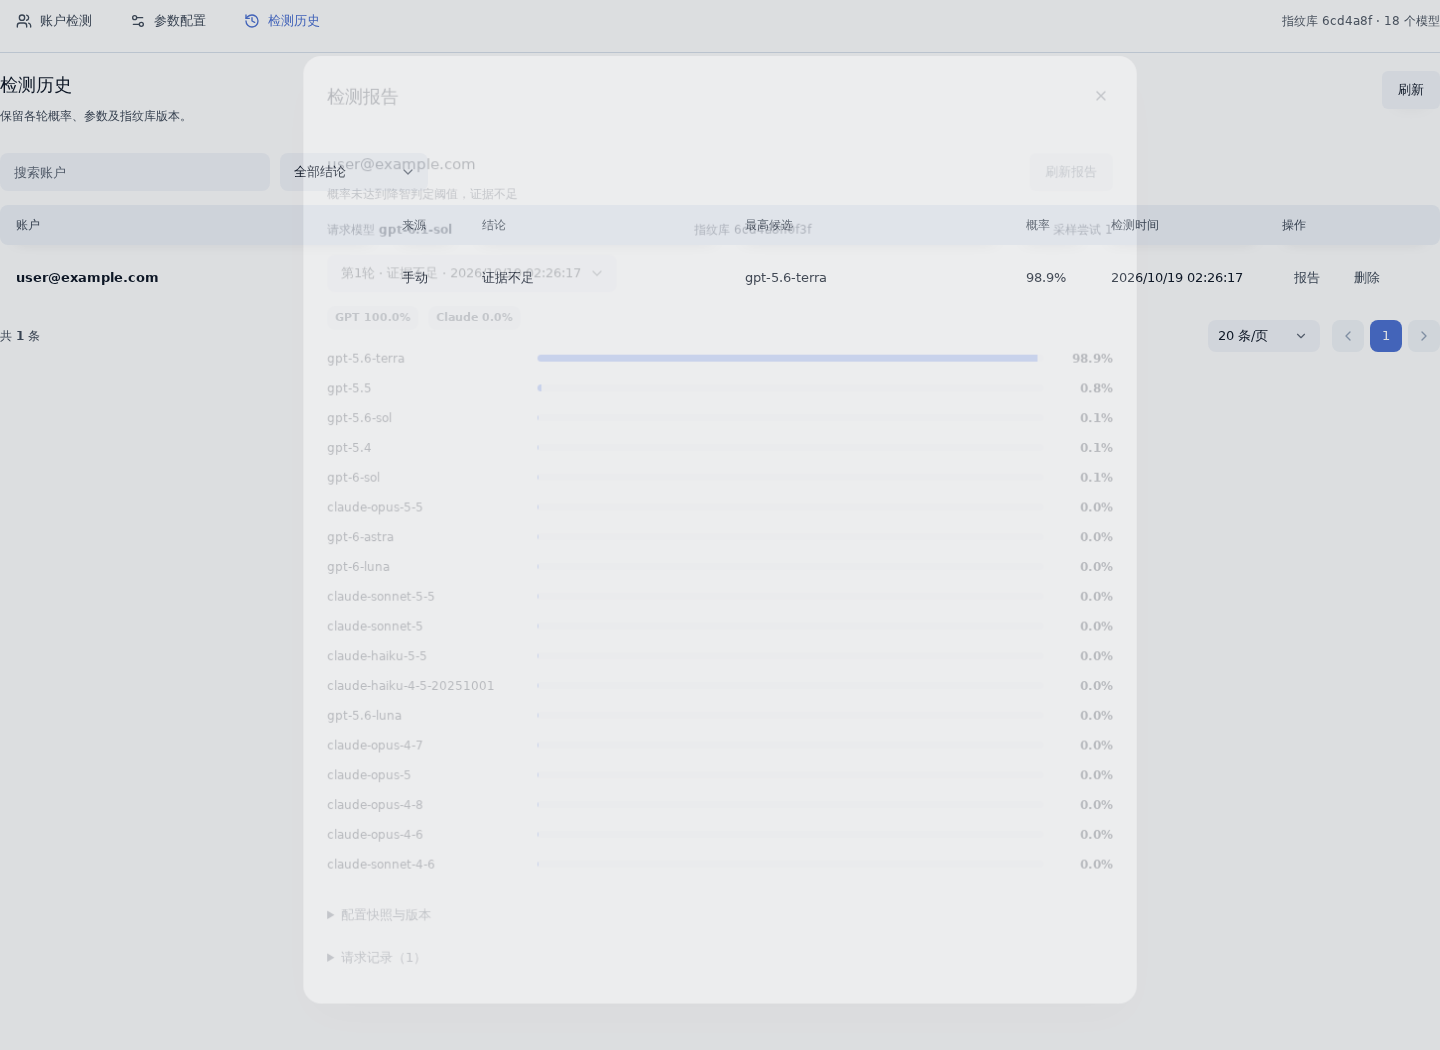
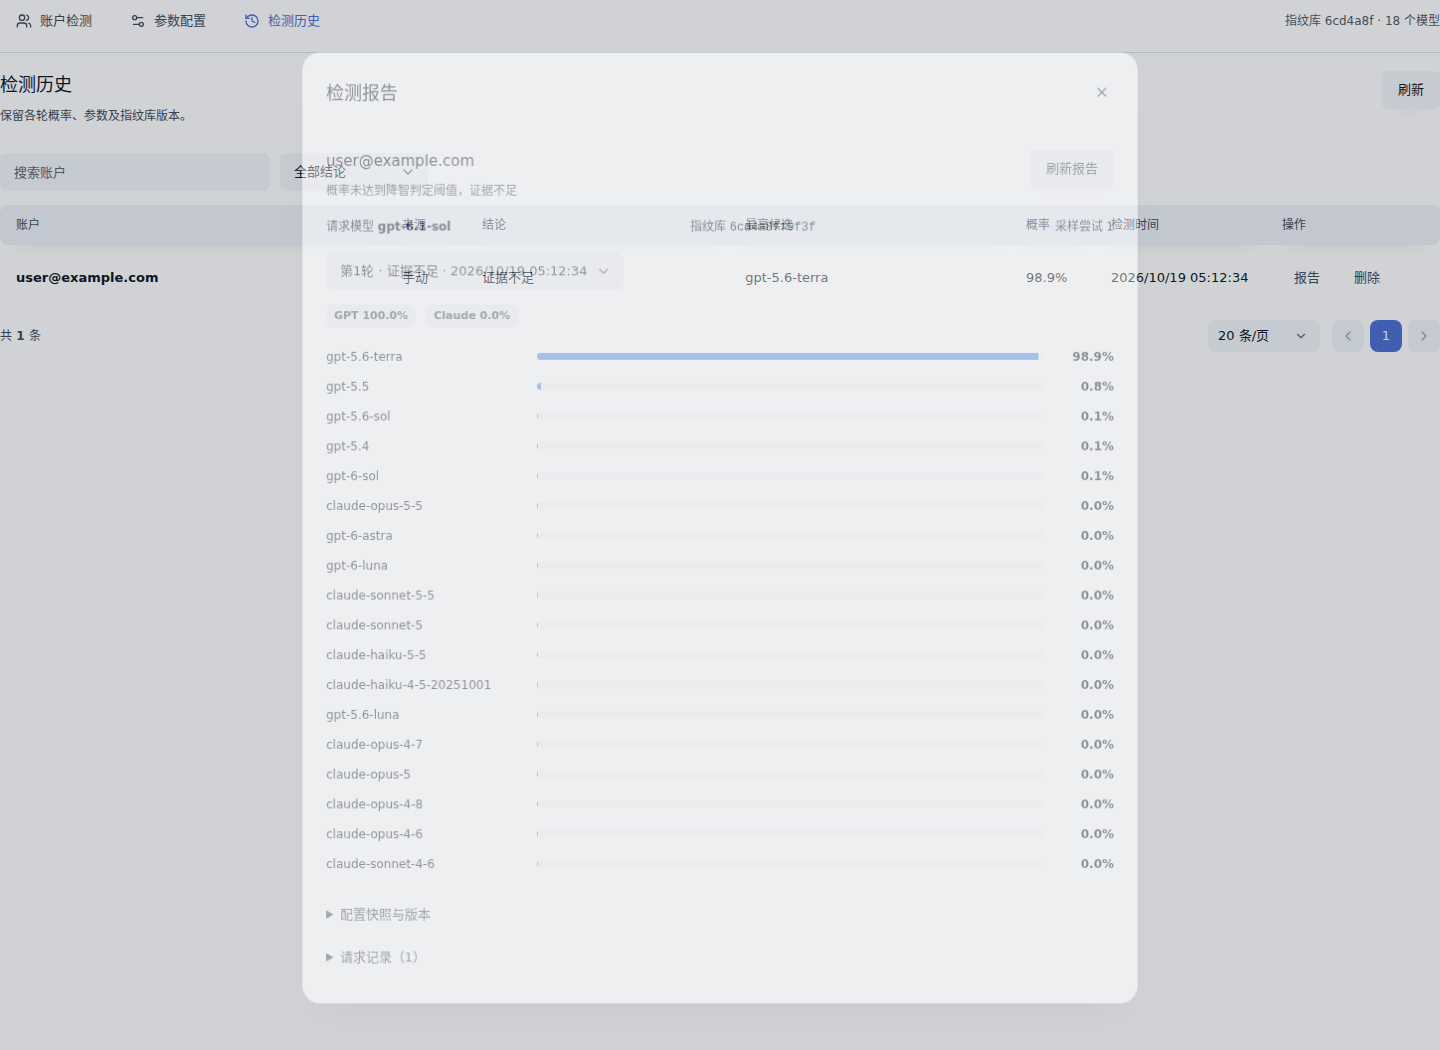
Release v1.4.2: label deferred scoring as its own progress stage

diff --git a/scripts/upgrade_smoke.py b/scripts/upgrade_smoke.py
@@ -48,9 +48,18 @@ def main():
             cfg["schedule"].update(enabled=True, scope="ids", accountIds=["acct-test"], timezone="Asia/Shanghai")
             old.request("api/config", {"config": cfg, "revision": bootstrap["configRevision"]})
             identity = old.request("api/submit", {"accountIds": ["acct-test"], "requestId": "actual-upgrade"})["submitted"][0]
-            old.tick()
-            before = old.request("api/bootstrap")
             report = old.request("api/report?id=" + identity)
+            # 1.4 defers scoring to the next maintenance callback when the callback
+            # budget runs low (cold start), so one tick no longer settles a round.
+            # Tick until the job settles: a first load after restart intentionally
+            # interrupts active jobs, which would mask the retention comparison.
+            for _ in range(5):
+                if report["status"] not in ("queued", "running"):
+                    break
+                old.tick()
+                report = old.request("api/report?id=" + identity)
+            assert report["status"] not in ("queued", "running"), "job did not settle before upgrade"
+            before = old.request("api/bootstrap")
             state = copy.deepcopy(old.state)
         finally:
             old.close()

diff --git a/backend/src/main.rs b/backend/src/main.rs
@@ -97,7 +97,7 @@ async fn handle(
             )
         }
         ("GET", "api/models") => {
-            let models:gateway_plugin_sdk::call::host::ModelListResult=host::meta(h,"host.models.list",json!({"client_key_id":query("keyId"),"protocol":"openai","client_version":"modeltrace-health/1.4.1"})).await?;
+            let models:gateway_plugin_sdk::call::host::ModelListResult=host::meta(h,"host.models.list",json!({"client_key_id":query("keyId"),"protocol":"openai","client_version":"modeltrace-health/1.4.2"})).await?;
             Ok(json!({"models":models.models}))
         }
         ("GET", "api/progress") => m

diff --git a/docs/verification.md b/docs/verification.md
@@ -1,26 +1,18 @@
-# v1.4.1 验证记录
+# v1.4.2 验证记录
 
 适配 Codex Proxy RS `>=3.29.1,<3.30.0`，Linux x86_64，glibc 2.36+。
 
-交付文件：`dist/personal.modeltrace-health-1.4.1-x86_64-unknown-linux-gnu.tar.gz`，30,677,349 字节。
+交付文件：`dist/personal.modeltrace-health-1.4.2-x86_64-unknown-linux-gnu.tar.gz`，30,676,003 字节。
 
[2 lines of base64/hex data omitted]
 
-## 回归原因与修复
+## 修复内容
 
-用已发布1.2及1.4安装包中的实际二进制，在相同30秒维护预算、默认120秒插件超时下，让模拟模型在25秒返回完整有效回答：
+1.4.1 中，模型回答在维护预算最后约5.5秒内到达时，有效样本已保存、评分被推迟到下一次维护回调，但阶段标签停留在 `validating`，界面显示「正在校验样本」并累计约30秒墙钟时间，容易被误读为校验耗时。
 
-| 版本 | 实际结果 |
-| --- | --- |
-| 1.2.0 | 第一次回调建立任务，第二次准备挑战，第三次请求约25.6秒后成功保存有效样本 |
-| 1.4.0 | 首次回调合并步骤后，约22.5秒主动记录「模型请求超时」 |
-| 1.4.1 | 冷启动及额外3秒准备延迟时，先保存挑战，不发送请求也不消耗尝试；下一回调的25秒请求成功，最终完成评分且仅发送一次模型请求 |
+1.4.2 在推迟评分时上报独立阶段 `waiting_score`，前端显示「已获得有效样本，等待评分」。评分时机、请求是否重发、采样尝试预算均与1.4.1完全一致，仅修正显示。
 
-1.3合并步骤时，30秒维护调用先扣除1.5秒安全时间，请求另扣6秒；准备阶段还继续占用同一预算。即使准备很快，请求也只剩约22.5秒。宿主在回调结束后约30秒再次调度，因此连续失败记录约52.5秒一次，与本次故障现象吻合。
-
-1.4.1将请求额外预留改为0.5秒，加上原有1.5秒安全时间，共保留约2秒。请求可使用约28秒；发起前检查是否还有完整窗口，冷启动准备较慢时主动让出回调。评分预算不足时继续保留有效样本，下次评分不重发请求。
-
-新增错误诊断区分维护预算超时与用户配置超时，保存实际窗口、耗时及已接收流数据量。连续两次维护预算超时提前终止；普通失败及配置超时仍最多5次。等待重试显示原因和次数，失败请求增加时立即触发报告刷新。
+对照验证使用同一回归测试分别运行两个发布二进制：`Integration.test_deferred_scoring_reports_waiting_score`（23秒返回的模拟回答，冷启动直接触发延后评分）在1.4.1二进制上失败于 `'validating' != 'waiting_score'`，在1.4.2二进制上通过；两次均只发送一次模型请求，下一次回调完成评分。
 
 ## 验证结果
 
@@ -28,13 +20,15 @@ SHA-256：`b0edc243c86fb6638ff07b3ee65cfcd513efbd825300749c0616f5c4e0af8bc5`。
 | --- | --- |
 | Rust 单元测试 | 11项通过，覆盖阈值、连续确认、旧记录兼容、时区、账户绑定、完整SSE要求、运行时解包及指纹库 |
 | Python 单元测试 | 6项通过，评分算法与运行时未变更 |
-| 发布二进制 RPC 集成 | 33项全部通过（159.902秒），包括上述25秒回归、连续预算超时停止、配置超时5次上限，以及1.4的两项调度操作、身份保护、定时、指纹库、取消与实时进度测试 |
-| 真实版本升级 | 1.4.0→1.4.1、1.3.0→1.4.1均通过。使用安装包中的二进制与同一模拟状态存储，检查自定义参数、配置版本、定时时区与下次执行时间、报告及指纹库保留，升级不重放请求；旧报告新增可选诊断字段为空 |
-| 浏览器交互 | 活跃任务每秒轮询，流进度与重试原因在2.5秒内显示；失败次数增加时报告自动更新，显示耗时、接收量和请求窗口；原有配置备份、导入、两项独立操作、宿主iframe隔离、桌面/手机与深色模式通过，无页面JavaScript异常 |
+| 发布二进制 RPC 集成 | 34项全部通过（174.830秒），含新增的延后评分阶段回归及上述1.4.1对照；调试二进制同一套件34项通过（145.709秒） |
+| 真实版本升级 | 1.3.0→1.4.2、1.4.0→1.4.2、1.4.1→1.4.2均通过。检查自定义参数、配置版本、定时时区与下次执行时间、报告及指纹库保留，升级不重放请求 |
+| 浏览器交互 | 19项检查通过：搜索、订阅筛选、批量提交、配置保存、备份与导入、移组重试、模型目录、指纹库更新回退、报告、移动端深色主题、2.5秒内实时进度、失败自动刷新、暂停恢复；无页面JavaScript异常 |
 | 静态与构建 | Rust fmt、Clippy `-D warnings`、TypeScript及前端生产构建通过；Zig以glibc2.36构建，最高导入GLIBC符号版本2.34 |
-| 安装包 | 包摘要与全部资源摘要、相对资源路径、私有Python/NumPy离线校验及实际插件冷启动解包/完整评分通过，内置18个候选模型 |
+| 安装包 | 包摘要与全部资源摘要、离线Python/NumPy评分及实际插件冷启动解包/完整评分通过，内置18个候选模型 |
 
-多数RPC测试先显式预热评分引擎，以验证各自的业务路径；冷启动由独立的准备延迟回归及完整安装包测试覆盖。模拟宿主会提供指定调用预算和延迟模型流，未连接真实RS管理服务或发送真实账户请求。
+多数RPC测试先显式预热评分引擎，以验证各自的业务路径；冷启动由新增的延后评分回归、准备延迟回归及完整安装包测试覆盖。模拟宿主会提供指定调用预算和延迟模型流，未连接真实RS管理服务或发送真实账户请求。
+
+升级用例在比较前会等待旧版本任务结算：1.4起评分可能跨维护回调完成，而进程重启后首次载入会把未结算任务按设计标记为「中断，需重新检测」，不重放请求；该行为与1.4.1一致（1.4.1→1.4.1对照同样为中断），并非1.4.2引入。
 
 插件ID、状态namespace和schema保持不变；1.4默认参数、移组/关闭调度、配置备份及1.3时区逻辑保留。本修复不要求更新宿主。宿主单次维护调用仍限制模型最长等待时间，插件配置120秒不代表可在30秒回调里等待120秒；真正的请求状态不确定仍保留中断保护。
 
@@ -44,11 +38,13 @@ SHA-256：`b0edc243c86fb6638ff07b3ee65cfcd513efbd825300749c0616f5c4e0af8bc5`。
 cargo test --manifest-path backend/Cargo.toml --locked
 cargo clippy --manifest-path backend/Cargo.toml --locked --all-targets -- -D warnings
 .venv/bin/python -m unittest discover -s engine/tests -v
-.venv/bin/python scripts/verify_artifact.py dist/personal.modeltrace-health-1.4.1-x86_64-unknown-linux-gnu.tar.gz
+.venv/bin/python scripts/verify_artifact.py dist/personal.modeltrace-health-1.4.2-x86_64-unknown-linux-gnu.tar.gz
 .venv/bin/python scripts/protocol_smoke.py --binary /path/to/extracted/bin/modeltrace-health -v
-.venv/bin/python scripts/upgrade_smoke.py dist/personal.modeltrace-health-1.4.0-x86_64-unknown-linux-gnu.tar.gz dist/personal.modeltrace-health-1.4.1-x86_64-unknown-linux-gnu.tar.gz
+.venv/bin/python scripts/upgrade_smoke.py dist/personal.modeltrace-health-1.4.1-x86_64-unknown-linux-gnu.tar.gz dist/personal.modeltrace-health-1.4.2-x86_64-unknown-linux-gnu.tar.gz
 .venv/bin/python scripts/ui_fixture.py
 PLAYWRIGHT_BROWSERS_PATH=.cache/browser-bin node scripts/ui_smoke.mjs
 ```
 
[1 lines of base64/hex data omitted]
+浏览器环境准备及完整构建命令见 [README](../README.md#开发与验证)。浏览器截图：[账户列表](screenshots/accounts.png)、[参数与指纹库设置](screenshots/settings.png)、[检测报告](screenshots/report.png)、[手机深色主题](screenshots/mobile.png)。
+
[1 lines of base64/hex data omitted]

diff --git a/docs/verification-v1.4.1.md b/docs/verification-v1.4.1.md
@@ -1,0 +1,54 @@
+# v1.4.1 验证记录
+
+适配 Codex Proxy RS `>=3.29.1,<3.30.0`，Linux x86_64，glibc 2.36+。
+
+交付文件：`dist/personal.modeltrace-health-1.4.1-x86_64-unknown-linux-gnu.tar.gz`，30,677,349 字节。
+
[1 lines of base64/hex data omitted]
+
+## 回归原因与修复
+
+用已发布1.2及1.4安装包中的实际二进制，在相同30秒维护预算、默认120秒插件超时下，让模拟模型在25秒返回完整有效回答：
+
+| 版本 | 实际结果 |
+| --- | --- |
+| 1.2.0 | 第一次回调建立任务，第二次准备挑战，第三次请求约25.6秒后成功保存有效样本 |
+| 1.4.0 | 首次回调合并步骤后，约22.5秒主动记录「模型请求超时」 |
+| 1.4.1 | 冷启动及额外3秒准备延迟时，先保存挑战，不发送请求也不消耗尝试；下一回调的25秒请求成功，最终完成评分且仅发送一次模型请求 |
+
+1.3合并步骤时，30秒维护调用先扣除1.5秒安全时间，请求另扣6秒；准备阶段还继续占用同一预算。即使准备很快，请求也只剩约22.5秒。宿主在回调结束后约30秒再次调度，因此连续失败记录约52.5秒一次，与本次故障现象吻合。
+
+1.4.1将请求额外预留改为0.5秒，加上原有1.5秒安全时间，共保留约2秒。请求可使用约28秒；发起前检查是否还有完整窗口，冷启动准备较慢时主动让出回调。评分预算不足时继续保留有效样本，下次评分不重发请求。
+
+新增错误诊断区分维护预算超时与用户配置超时，保存实际窗口、耗时及已接收流数据量。连续两次维护预算超时提前终止；普通失败及配置超时仍最多5次。等待重试显示原因和次数，失败请求增加时立即触发报告刷新。
+
+## 验证结果
+
+| 验证 | 结果 |
+| --- | --- |
+| Rust 单元测试 | 11项通过，覆盖阈值、连续确认、旧记录兼容、时区、账户绑定、完整SSE要求、运行时解包及指纹库 |
+| Python 单元测试 | 6项通过，评分算法与运行时未变更 |
+| 发布二进制 RPC 集成 | 33项全部通过（159.902秒），包括上述25秒回归、连续预算超时停止、配置超时5次上限，以及1.4的两项调度操作、身份保护、定时、指纹库、取消与实时进度测试 |
+| 真实版本升级 | 1.4.0→1.4.1、1.3.0→1.4.1均通过。使用安装包中的二进制与同一模拟状态存储，检查自定义参数、配置版本、定时时区与下次执行时间、报告及指纹库保留，升级不重放请求；旧报告新增可选诊断字段为空 |
+| 浏览器交互 | 活跃任务每秒轮询，流进度与重试原因在2.5秒内显示；失败次数增加时报告自动更新，显示耗时、接收量和请求窗口；原有配置备份、导入、两项独立操作、宿主iframe隔离、桌面/手机与深色模式通过，无页面JavaScript异常 |
+| 静态与构建 | Rust fmt、Clippy `-D warnings`、TypeScript及前端生产构建通过；Zig以glibc2.36构建，最高导入GLIBC符号版本2.34 |
+| 安装包 | 包摘要与全部资源摘要、相对资源路径、私有Python/NumPy离线校验及实际插件冷启动解包/完整评分通过，内置18个候选模型 |
+
+多数RPC测试先显式预热评分引擎，以验证各自的业务路径；冷启动由独立的准备延迟回归及完整安装包测试覆盖。模拟宿主会提供指定调用预算和延迟模型流，未连接真实RS管理服务或发送真实账户请求。
+
+插件ID、状态namespace和schema保持不变；1.4默认参数、移组/关闭调度、配置备份及1.3时区逻辑保留。本修复不要求更新宿主。宿主单次维护调用仍限制模型最长等待时间，插件配置120秒不代表可在30秒回调里等待120秒；真正的请求状态不确定仍保留中断保护。
+
+## 复现
+
+```bash
+cargo test --manifest-path backend/Cargo.toml --locked
+cargo clippy --manifest-path backend/Cargo.toml --locked --all-targets -- -D warnings
+.venv/bin/python -m unittest discover -s engine/tests -v
+.venv/bin/python scripts/verify_artifact.py dist/personal.modeltrace-health-1.4.1-x86_64-unknown-linux-gnu.tar.gz
+.venv/bin/python scripts/protocol_smoke.py --binary /path/to/extracted/bin/modeltrace-health -v
+.venv/bin/python scripts/upgrade_smoke.py dist/personal.modeltrace-health-1.4.0-x86_64-unknown-linux-gnu.tar.gz dist/personal.modeltrace-health-1.4.1-x86_64-unknown-linux-gnu.tar.gz
+.venv/bin/python scripts/ui_fixture.py
+PLAYWRIGHT_BROWSERS_PATH=.cache/browser-bin node scripts/ui_smoke.mjs
+```
+
[1 lines of base64/hex data omitted]

diff --git a/README.md b/README.md
@@ -8,11 +8,16 @@
 
 在宿主「插件管理 → 安装插件 → 上传包」上传：
 
-`dist/personal.modeltrace-health-1.4.1-x86_64-unknown-linux-gnu.tar.gz`
+`dist/personal.modeltrace-health-1.4.2-x86_64-unknown-linux-gnu.tar.gz`
 
 启用后打开「账号降智检测」，进入「参数配置」选择已有计量 Key，保存后即可单号或批量检测。检测请求由宿主按指定账户 ID 执行，使用该账户绑定的代理并计入所选 Key。Key 的账户分组和模型权限仍由宿主校验。页面仅接收 Key ID 和名称。
 
 运行时首次检测会解出约91MB文件，目标目录需可写、可执行并有足够空间。自动跳过 `noexec` 临时目录，解包失败时清理残留并尝试 `/var/tmp`，兼容 Docker 中仅64MB且禁止执行的 `/tmp`。可用宿主进程的 `MODELTRACE_RUNTIME_DIR` 指定首选目录，或用 `TMPDIR` 修改系统临时目录。解包不恢复不必要的文件时间戳；异常会显示具体条目和系统错误。
+
+### 1.4.2 进度显示修复
+
+- 修复慢回答时进度长期停在「正在校验样本」的误读：回答在维护预算最后约5.5秒内到达时，有效样本已保存、评分按设计延至下一次维护回调，但阶段标签停留在校验中并累计约30秒。现在样本通过校验后阶段显示为「已获得有效样本，等待评分」。
+- 检测行为与1.4.1完全一致：评分在下一次回调执行，不重发模型请求，不消耗采样尝试。新增对应RPC回归测试。
 
 ### 1.4.1 超时修复
 
@@ -124,7 +129,7 @@ cargo build --manifest-path backend/Cargo.toml --locked
 .venv/bin/python scripts/build_runtime.py
 cargo zigbuild --manifest-path backend/Cargo.toml --locked --release --target x86_64-unknown-linux-gnu.2.36
 cpr-plugin package --manifest plugin.json --binary backend/target/x86_64-unknown-linux-gnu/release/modeltrace-health --target x86_64-unknown-linux-gnu --resource-map web=frontend/dist --output-dir dist
-.venv/bin/python scripts/verify_artifact.py dist/personal.modeltrace-health-1.4.1-x86_64-unknown-linux-gnu.tar.gz
+.venv/bin/python scripts/verify_artifact.py dist/personal.modeltrace-health-1.4.2-x86_64-unknown-linux-gnu.tar.gz
 ```
 
 基础镜像已缓存时可向 `build_runtime.py` 传 `--base-tar /path/python-base.tar`。脚本验证固定镜像配置、各镜像层和NumPy wheel哈希，不依赖Docker守护进程。`scripts/package.sh` 可串联构建和校验，需在已激活的开发环境运行。

diff --git a/docs/releases/v1.4.2.md b/docs/releases/v1.4.2.md
@@ -1,0 +1,10 @@
+# 账号降智检测 1.4.2
+
+修正慢回答下的进度显示：1.4.1 中，模型回答在维护预算最后约5.5秒到达时，有效样本已保存、评分按设计延至下一次维护回调，但进度停留在「正在校验样本」并累计约30秒，容易被误读为校验耗时。行为与1.4.1完全一致，仅修正显示。
+
+- 样本通过校验后阶段显示为「已获得有效样本，等待评分」；评分在下一次维护回调执行，不重发模型请求，不消耗采样尝试。
+- 新增RPC集成回归：23秒返回的模拟回答下断言阶段文案、有效样本保留与下一次回调完成评分。同一回归在1.4.1发布二进制上复现旧阶段（仍为校验中）并失败，在1.4.2上通过。
+
+上传附件 `personal.modeltrace-health-1.4.2-x86_64-unknown-linux-gnu.tar.gz` 更新现有实例，`.sha256` 用于校验。适用于 **Codex Proxy RS >=3.29.1、<3.30.0；Linux x86_64、glibc 2.36+**，内含 Python/NumPy，无需另外部署 ModelTrace。本次修复不要求更新宿主。
+
+验证：11项Rust、6项Python、34项发布二进制RPC集成、1.3.0/1.4.0/1.4.1→1.4.2升级和浏览器交互均通过。验证结果和复现命令见仓库 `docs/verification.md`。集成使用实际发布二进制与模拟宿主、模型流，未发送真实账户检测请求。
